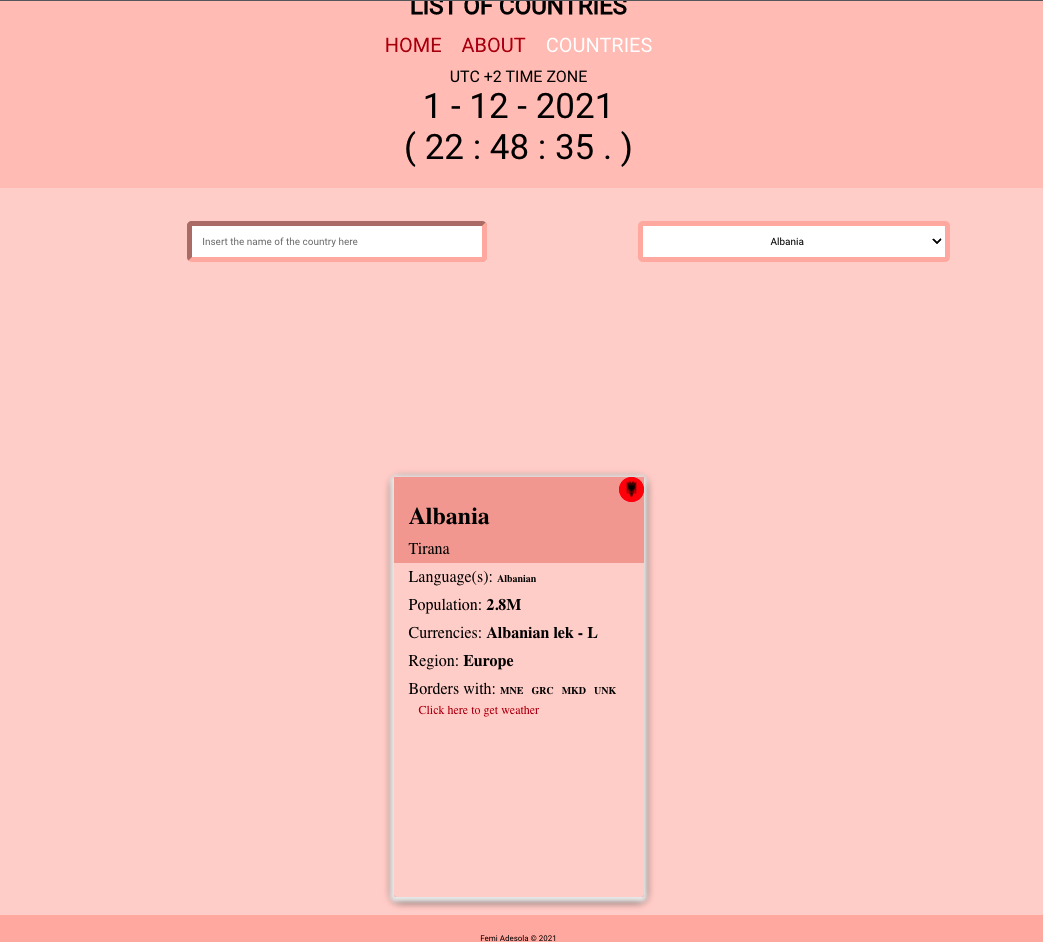
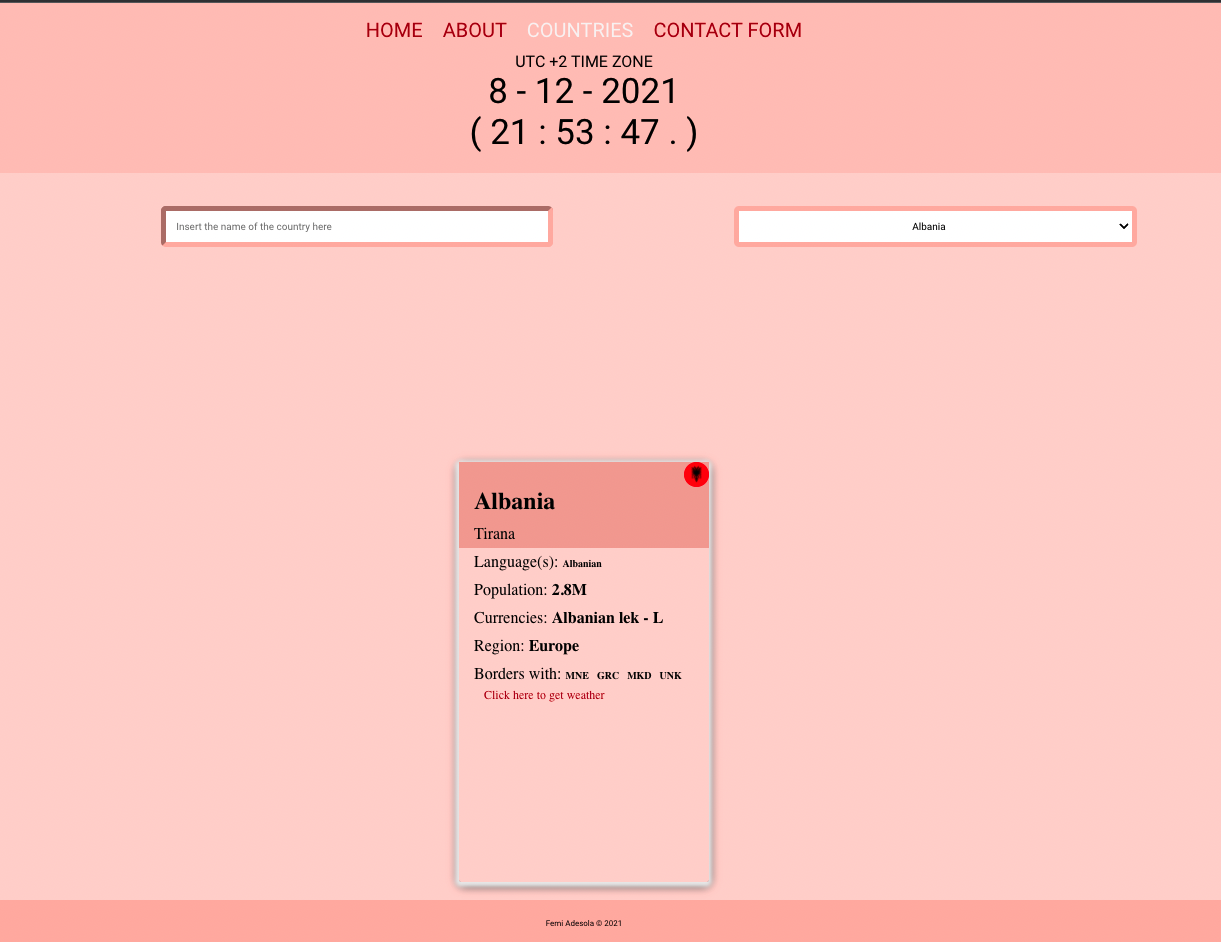
Correction in README file

diff --git a/src/form/App_F.js b/src/form/App_F.js
@@ -1,125 +1,82 @@
-
 import './App_F.css';
-import Header from "./components/Header_F";
-
-import { useState, useEffect } from "react";
+import { useState} from "react";
 import {db} from "./firebase.config-2";
-import {collection, doc, deleteDoc,addDoc,updateDoc,getDocs} from "firebase/firestore"
+import {collection, addDoc} from "firebase/firestore"
 
-function App() {
-
-  const [users, setUsers] = useState([]);
+function AppF() {
   const [firstName, setFirstName]= useState("");
   const [lastName, setLastName]= useState("");
   const [Address, setAddress]= useState("");
   const [postCode, setPostCode]= useState("");
   const [phone, setPhone]= useState("");
   const [Email, setEmail]= useState("");
-  const [newAge, setNewAge]= useState(0);
-
-  const usersCollectionRef = collection(db,"users");
+  const [message, setMessage]= useState("");
+  
+  const usersCollectionRef = collection(db,"users_2");
 
 // Create new users function 
   const createUser = async()=>{
-    await addDoc(usersCollectionRef, {firstName:firstName, lastName:lastName, Address:Address, postCode:Number(postCode), phone:phone, Email:Email,age:Number(newAge)});
+    await addDoc(usersCollectionRef, {firstName:firstName, lastName:lastName, Address:Address, postCode:Number(postCode), phone:phone, Email:Email, message:message});
   }
 
-  // Create update users function
-  const updateUser = async (id, age) => {
-      const userDoc = doc(db, "users", id);
-      const newFields = { age: age + 1 };
-      await updateDoc(userDoc, newFields);
-  };
 
-  // Create delete users function 
-   const deleteUser = async (id) => {
-      const userDoc = doc(db, "users", id);
-      await deleteDoc(userDoc);
-    };
-
-
-    // use effect function 
-  useEffect(()=>{
-    const getUsers = async ()=>{
-     const data = await getDocs(usersCollectionRef);
-     setUsers(data.docs.map((doc)=>({ ...doc.data(), id: doc.id})));
-    };
-    getUsers();
-  }, []);
+  const popUpHandler = (ev)=>{
+    ev.preventDefault();
+    
+  }
   
   return (
-    <div className="App_F">
-   
-        <Header/>
+    <div className="App_F" submit={popUpHandler}>
       {/*input new  users function  */}
       <div>
         <label htmlFor="firstName"> First Name</label>
-        <input name="" placeholder="First Name..." onChange={(event)=>{
+        <input id="firstName" name="firstName" placeholder="First Name..." required  onChange={(event)=>{
           setFirstName(event.target.value)
         }}/>
       </div>
       <div>
          <label htmlFor="lastName"> Last Name</label>
-         <input name="lastName"placeholder="Last Name..." onChange={(event)=>{
+         <input id="lastName" name="lastName" placeholder="Last Name..." required  onChange={(event)=>{
           setLastName(event.target.value)
         }}/>
       </div>
       <div>
         <label htmlFor="address">Address</label>
-          <input name="address" placeholder="Address..." onChange={(event)=>{
+          <input id="address" name="address" placeholder="Address..." required  onChange={(event)=>{
           setAddress(event.target.value)
         }}/>
       </div>
       <div>
         <label htmlFor="postcode"> Post Code</label>
-         <input type="number" name="postcode" placeholder="Post code..." onChange={(event)=>{
+         <input type="number" id="postcode" name="postcode" placeholder="Post code..." required  onChange={(event)=>{
           setPostCode(event.target.value)
         }}/>
       </div>
       <div>
         <label htmlFor="phoneNumber"> Phone Number</label>
-          <input name="phoneNumber" placeholder="Phone number..." onChange={(event)=>{
+          <input id="phoneNumber" name="phoneNumber" placeholder="Phone number..." required  onChange={(event)=>{
           setPhone(event.target.value)
         }}/>
       </div>
       <div>
         <label htmlFor="Email"> Email</label>
-          <input name="Email" placeholder="Email..." onChange={(event)=>{
+          <input id="Email" name="Email" placeholder="Email..." required  onChange={(event)=>{
           setEmail(event.target.value)
         }}/>
       </div>
+
       <div>
-        <label htmlFor="age">Age</label>
-        <input type="number"name="age" placeholder="Age..."  onChange={(event)=>{
-          setNewAge(event.target.value)
-        }}/>
+        <label htmlFor="message"> Message</label>
+          <textarea  id="message" name="message" placeholder="write your message here..." onChange={(event)=>{
+          setMessage(event.target.value)
+        }}></textarea>
       </div>
       
 
-        <button onClick={createUser}>create-User</button>
-        {users.map((user)=>{return <div className="result">
-          {" "}
-          <div className="data"> 
-          <h1>First Name: <span>{user.firstName} </span></h1>
-          <h1>Last Name: <span>{user.lastName} </span></h1>
-          <h1>Address: <span>{user.Address}</span> </h1>
-          <h1>Post Code:<span> {user.postCode}</span> </h1>
-          <h1>Phone Number:<span> {user.phone} </span></h1>
-          <h1>Email: <span>{user.Email} </span></h1>
-          <h1>Age:<span> {user.age} </span></h1>
-       
-          </div>
-
-          {/* update users button   */} 
-        <button onClick={() => { updateUser(user.id, user.age,user.Address,user.postCode, user.phone, user.Email );}}>{" "}Increase Age</button>
-
-            {/* delete users button   */} 
-        <button onClick={() => {deleteUser(user.id);}}>{" "}Delete User</button>
-
-   </div>})}
+      <button type="submit" value="Submit" onClick={createUser}>submit</button>
 
     </div>
   );
 }
 
-export default App;
+export default AppF;

diff --git a/src/form/App_F.css b/src/form/App_F.css
@@ -26,6 +26,14 @@
  --accent-4: #92cfc7;
  --accent-5: #d7f2ef;
 
+  /* melon */
+  --ml-1:#e8a598;
+  --ml-2:#ffb5a7;
+  --ml-3:#fec5bb;
+  --ml-4:#fcd5ce;
+  --ml-5:#fae1dd;
+  --ml-6:#f8edeb;
+
 
   --font-1: 'Caveat', cursive;
   --font-2:'Roboto', sans-serif;
@@ -38,89 +46,53 @@
 
 
 body .App_F  {
-  background-color: var(--accent-3);
+  background-color: var(--ml-2);
   font-family: var(--font-2);
   -webkit-font-smoothing: antialiased;
   -moz-osx-font-smoothing: grayscale;
 }
-.App_F header{
-  padding: 30px;
-  text-align: center;
-  font-size: 40px;
-  background-color: var(--accent-1);
-  color: var(--white);
-  width: 100%;
-  text-transform: uppercase;
-
-}
 
 .App_F input,
-.App_F select {
-  padding: 20px;
+.App_F select, .App_F textarea {
+  padding: 15px;
   border-radius: 5px;
   outline: none;
+  border: none;
   font-size: 20px;
   width: 500px;
   margin-top: 20px;
   font-family: var(--font-2);
   background-color: var(--color-3);
 }
+
 .App_F label {
   display: inline-block;
   width: 20%;
-  font-size: 40px;
+  font-size: 30px;
   margin-left: 10px;
   text-align: left;
-  
 }
 .App_F button{
-  background-color: var(--bg-color-1);
+  background-color: var(--ml-1);
   color:var(--white);
   border: none;
   border-radius: 5px;
   box-shadow: 0 0 5px var(--color-4);
   padding: 1rem;
-  width: 15%;
-  margin: 20px;
+  margin: 10px;
   font-size: 20px;
-  margin-top: 2rem;
   text-transform: uppercase;
 }
 
 .App_F{
-  background-color: var(--accent-3);
   text-align: center;
   justify-content: center;
-  box-shadow: 0px 0px 5px var(--color-2);
-  border: none;
-  border-radius: 16px;
+  margin: 50px auto;
 }
 
 
-
-
-
-.App_F .result{
-  border: 2px solid var(--bg-color-5);
-  justify-content: center;
-}
   
 
-.App_F .data h1{
-  padding: 1rem 0;
-  font-size: 30px;
-  margin: 20px;
-}
 
-.App_F .data{
-  margin-left: 600px ;
- text-align: left;
-  border-radius: 10px;
-}
-
-.App_F .data h1 span{
-  margin: 100px;
-  font-size: 1.5rem;
-} 
 
 

diff --git a/src/Main.js b/src/Main.js
@@ -4,7 +4,7 @@ import Home from "./components/Home";
 import CountriesList from "./components/countries/CountriesList";
 import CountrySingle from "./components/countries/CountrySingle";
 import About from "./components/About";
-import App_F from "./form/App_F"
+import AppF from "./form/App_F"
 
 
 const RouterWrapper =(props)=>{
@@ -19,7 +19,7 @@ const Main = () => {
             <Route  path = "/about"  element={<About/>}/>
             <Route  path = "/countries"  element={<CountriesList/>}/>
             <Route path = "/countries/:name" element ={<RouterWrapper/>}/>
-            <Route  path = "/form"  element={<App_F/>}/>
+            <Route  path = "/form"  element={<AppF/>}/>
             
        </Routes>
     );

diff --git a/src/components/Nav.js b/src/components/Nav.js
@@ -18,7 +18,7 @@ const Nav = () => {
               </li> 
 
               <li>
-                <NavLink className={(navData) => navData.isActive ? "active" : "" }  to="/form"> Form</NavLink> 
+                <NavLink className={(navData) => navData.isActive ? "active" : "" }  to="/form">Contact form</NavLink> 
               </li> 
             </ul>
         </nav>

diff --git a/src/form/firebase.config-2.js b/src/form/firebase.config-2.js
@@ -15,5 +15,5 @@ const firebaseConfig = {
 };
 
 // Initialize Firebase
-const app = initializeApp(firebaseConfig);
+ initializeApp(firebaseConfig);
 export const db = getFirestore();

diff --git a/README.md b/README.md
@@ -1,39 +1,50 @@
-# List of countries built with ReactJS and fetch data with Axios. 
+# List of countries built with ReactJS 
+- The code in this program describes how to fetch data with Axios, map the data and filter out the relevant data needed. 
+    -   The home page displays the map of the world countries. 
+
 ![List-of-countries-screenshot](/img/Front.png)
 
 ---
 ### About the list of the country
 -   User can read more about each country 
+     - The about page displays the information of what users can see when they click on the countries button. 
+
 ![List-of-countries-screenshot](/img/About.png)
 
 ---
 ### List of countries
-- The program is done with ReactJS [router, class component] and Axios as third parties for fetching data.
-- Each card displays each country's name, capital population, currencies, region, and country borders.
-
+- Each card displays each country's name, capital, population, currencies, region, and country borders.
+   
 ![List-of-countries-screenshot](/img/List-of-countries.png)
 
 ---
 ### There are two search options to fetch any desired country
 -   First by type the name of country and
 -   Second by selection option.
+
 ![Search-by-option-screenshot](/img/search-by-option.png)
 
 ---
 ### Result 
 -   After the selection option, the selected country is displayed with detailed information as a card. 
+    -  - When the user clicks on getting weather, it navigates to a page where the user can few the present weather condition of that country. 
 
 ![Search-by-option-screenshot](/img/Result.png)
 
 ---
 ### Single country details
 -   When the user clicks on each country card, it displays the weather condition of the capital. 
+    - Here users can see the current weather, humidity, and cloudy condition of the selected country. 
+By clicking on the back to countries list link, it navigates to the list of countries. 
+
 ![Search-by-option-screenshot](/img/SingleCountry.png)
 
 ---
 # Form application built with ReactJS program to post information to database
 
 ## Form Application format
+- Users can send a message through the contact form to get more information if needed.
+
 ![Screenshot](/img/Front_F.png)
 
 ---
@@ -42,6 +53,8 @@
 
 ---
 ## Filled form before send to database
+-   Filled information will go directly to the database when the user clicks on submit button.
+
 ![Screenshot](/img/Filled-form.png)
 
 ---
